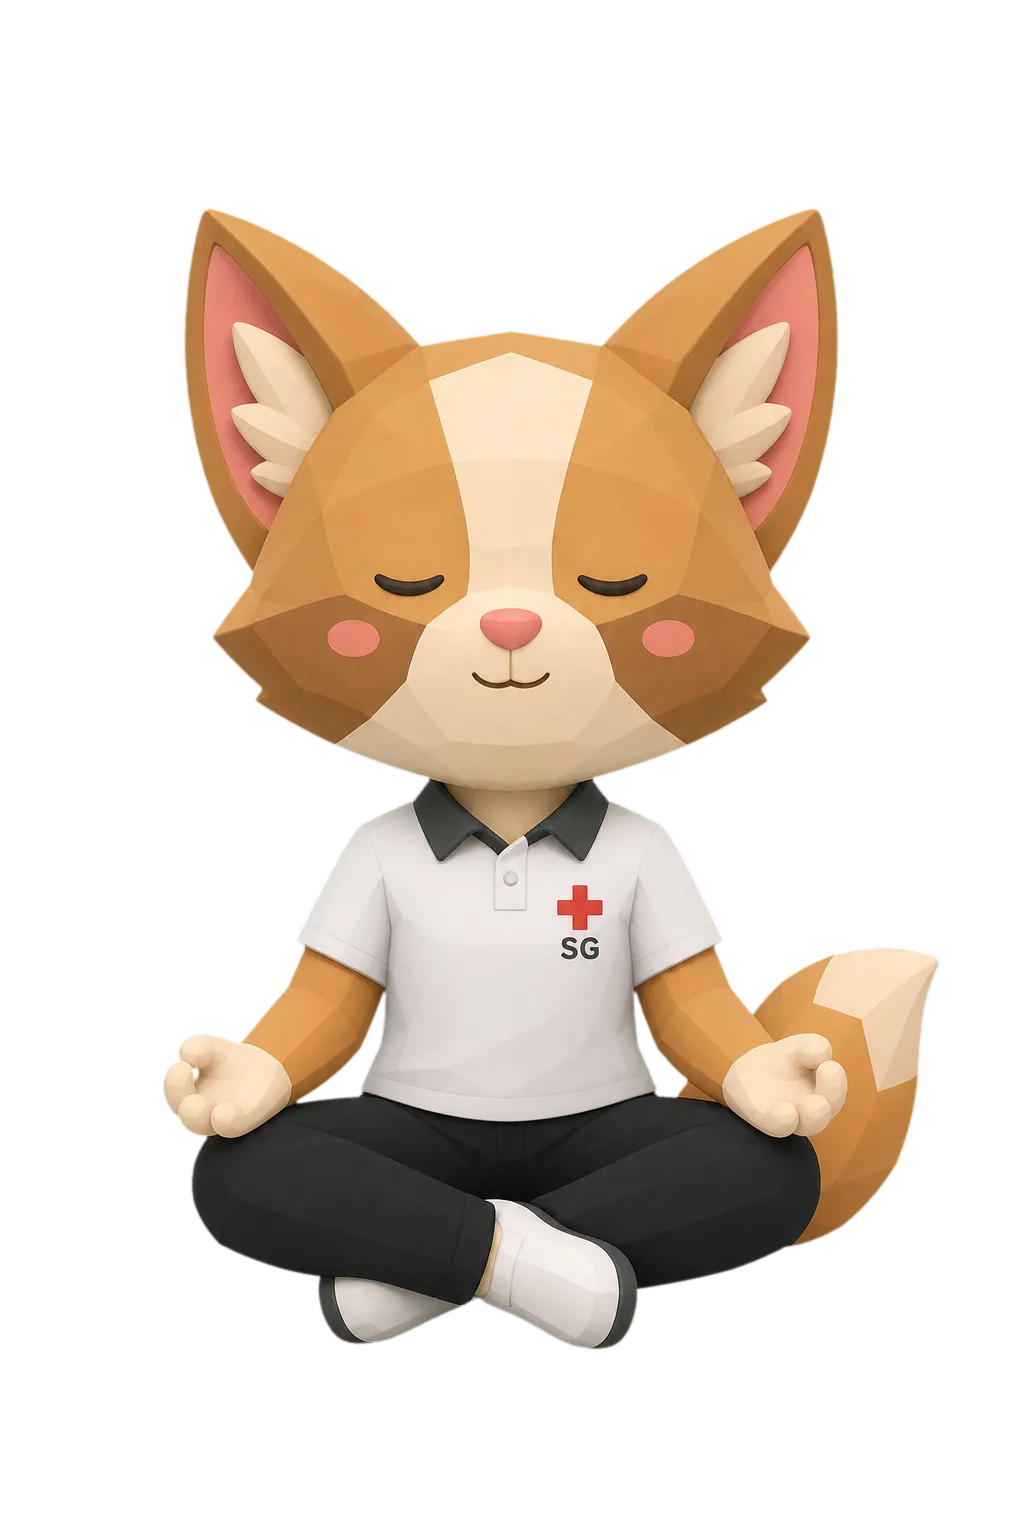
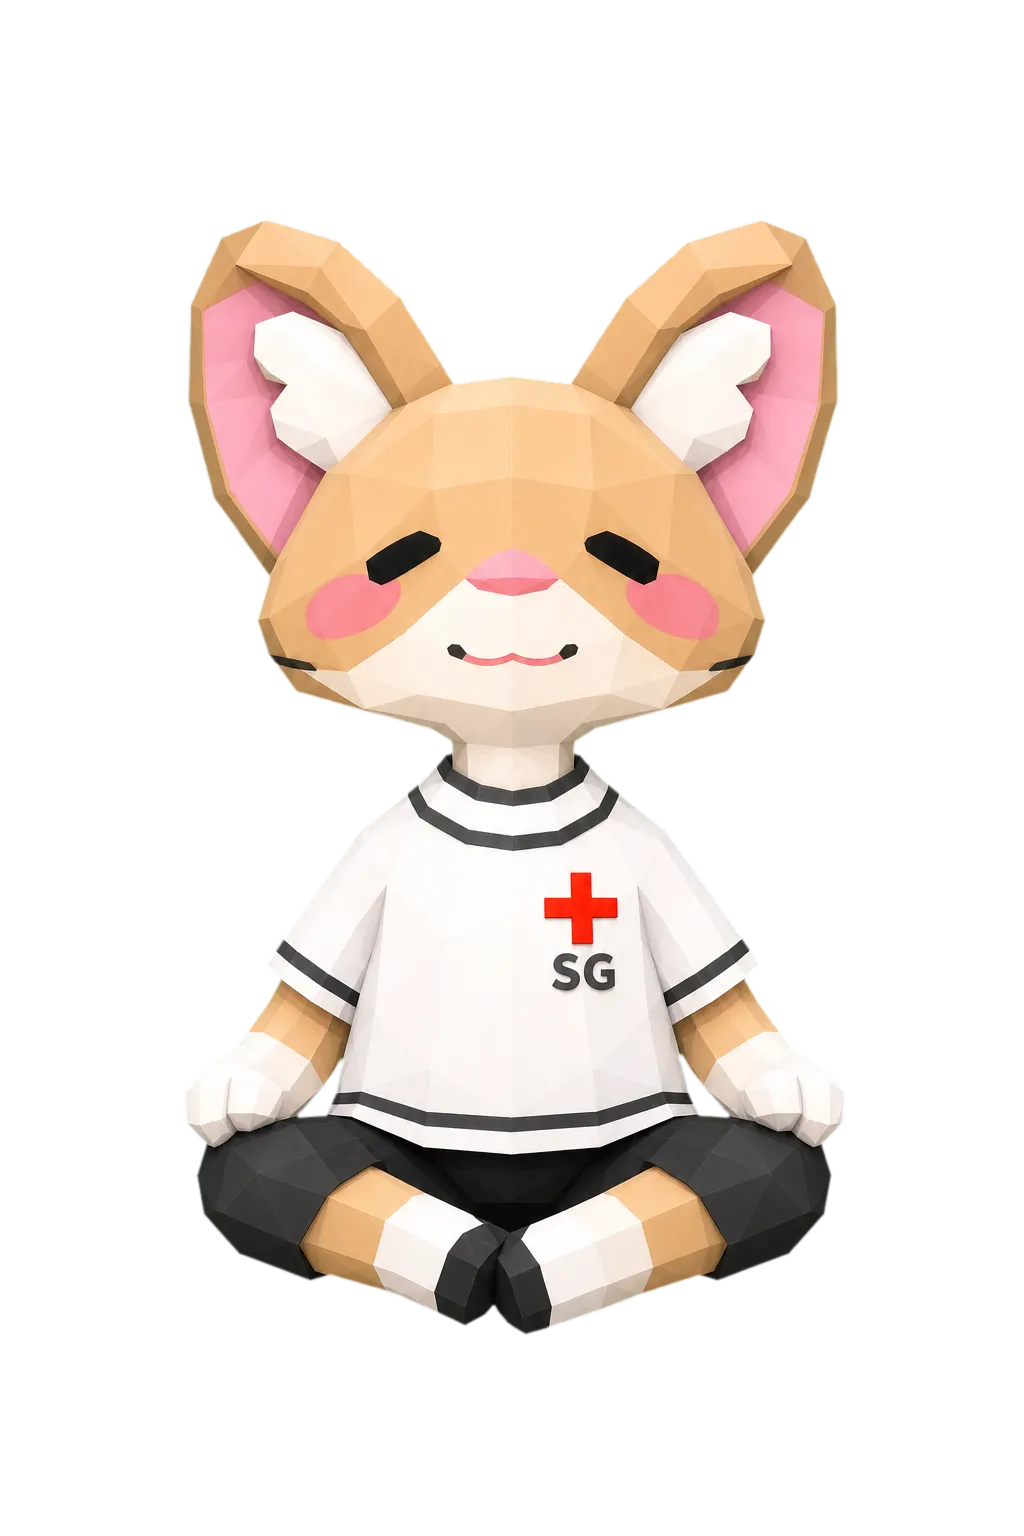
Match AR poses to scenario character bases

diff --git a/assets/js/app.js b/assets/js/app.js
@@ -34,7 +34,7 @@ function notifyMotion(name, detail = {}) {
 
 const pulseSurveyFile = "assets/data/pulse-surveys.json";
 const arCardsFile = "assets/data/ar-cards.json";
-const arAssetVersion = "20260729-consistent-ar-poses";
+const arAssetVersion = "20260729-base-locked-ar-poses";
 const scenarioLibraryFile = "assets/data/scenarios/scenario-library.json";
 let scenarioDefinitions = [];
 let scenarioIds = [];
@@ -1272,7 +1272,7 @@ function renderPrintableArCards() {
 }
 
 async function loadArCards() {
-  const response = await fetch(`${arCardsFile}?v=20260729-consistent-ar-poses`);
+  const response = await fetch(`${arCardsFile}?v=20260729-base-locked-ar-poses`);
   if (!response.ok) throw new Error("AR card content could not be loaded.");
 
   const data = await response.json();

diff --git a/index.html b/index.html
@@ -355,7 +355,7 @@
               <div class="ar-reticle" aria-hidden="true"><span></span></div>
               <article class="ar-overlay" id="arOverlay" aria-live="polite" hidden>
                 <div class="ar-visual" id="arVisual">
-                  <img id="arCharacterImage" src="assets/ar-models/real-r-lowpoly.webp" alt="" width="1024" height="1536" decoding="async" />
+                  <img id="arCharacterImage" src="assets/ar-models/real-r-lowpoly.webp?v=20260729-base-locked-ar-poses" alt="" width="1024" height="1536" decoding="async" />
                   <span class="ar-effect" id="arEffect" aria-hidden="true"></span>
                 </div>
                 <div class="ar-overlay-copy">

diff --git a/HANDOFF.md b/HANDOFF.md
@@ -37,11 +37,11 @@ The confirmed production audit is implemented locally.
 
 - The earlier cleanup removed 40 superseded files (13.96 MB), including duplicate character frames, legacy AR prototypes, lossless office sources, obsolete scenario data, and unused design references.
 - AR now has one audited, card-specific pose per framework letter in `assets/ar-models`: `real-r`, `real-e`, `real-a`, `real-l`, `care-c`, `care-a`, `care-r`, and `care-e`.
-- The four REAL renders share one locked Alex identity; the four CARE renders share one locked Jamie identity. Face geometry, clothing, color, low-poly material, lighting, camera, and canvas stay consistent while body language changes to match each card's learning action.
-- All eight AR models are transparent `1024x1536` WebP cutouts (about 52-73 KB each). The physical card artwork and the MindAR target bundle are unchanged.
+- The four REAL renders are derived directly from `assets/characters/manager-lowpoly-idle.webp`; the four CARE renders are derived directly from `assets/characters/sarah-lowpoly-idle.webp`. Their original face geometry, closed-eye bars, proportions, clothing, color, polygon facets, lighting, front camera, and canvas remain locked while only body posture changes for each card action.
+- All eight AR models are transparent `1024x1536` WebP cutouts (about 59-70 KB each). The physical card artwork and the MindAR target bundle are unchanged.
 - Scenario characters remain the existing 12 idle/talking frames in `assets/characters`; this AR-only regeneration does not modify visual-novel presentation or audio-driven mouth timing.
-- `assets/data/ar-cards.json` maps every card directly to `assets/ar-models/<card-id>-lowpoly.webp`. The AR cache key is `20260729-consistent-ar-poses`.
-- `scripts/build-public.mjs` copies an exact 73-file runtime manifest. The production package is 20.61 MB and excludes source/reference documents by construction.
+- `assets/data/ar-cards.json` maps every card directly to `assets/ar-models/<card-id>-lowpoly.webp`. The AR cache key is `20260729-base-locked-ar-poses`.
+- `scripts/build-public.mjs` copies an exact 73-file runtime manifest. The production package is 20.60 MB and excludes source/reference documents by construction.
 ### Scenario voice-over release (2026-07-28)
 
 - Scenario narration and character dialogue now use the browser Web Speech API after the learner's first pointer or keyboard interaction.
@@ -234,7 +234,7 @@ The pulse survey and game competency dimensions are reported separately; do not 
 - Dashboard fixture: 75 learners and 300 result records rendered in about 40-50ms.
 - Firestore sample pack: 12 synthetic learners, 61 attempts, 4 drop-offs, 8 replays, 41 reflections, and 53 latest-progress records; dry run and all 168 live-document checks passed.
 - `npm audit --omit=dev --audit-level=moderate`: 0 vulnerabilities after `protobufjs` 7.6.5 patch.
-- Final build: 73 explicit runtime files (20.61 MB), including 12 scenario character frames, eight dedicated transparent AR model poses, four location backgrounds, eight supplied physical card artworks, and one locally compiled 2.44 MB MindAR version-2 bundle.
+- Final build: 73 explicit runtime files (20.60 MB), including 12 scenario character frames, eight dedicated transparent AR model poses, four location backgrounds, eight supplied physical card artworks, and one locally compiled 2.44 MB MindAR version-2 bundle.
 
 ## Known Limits
 
